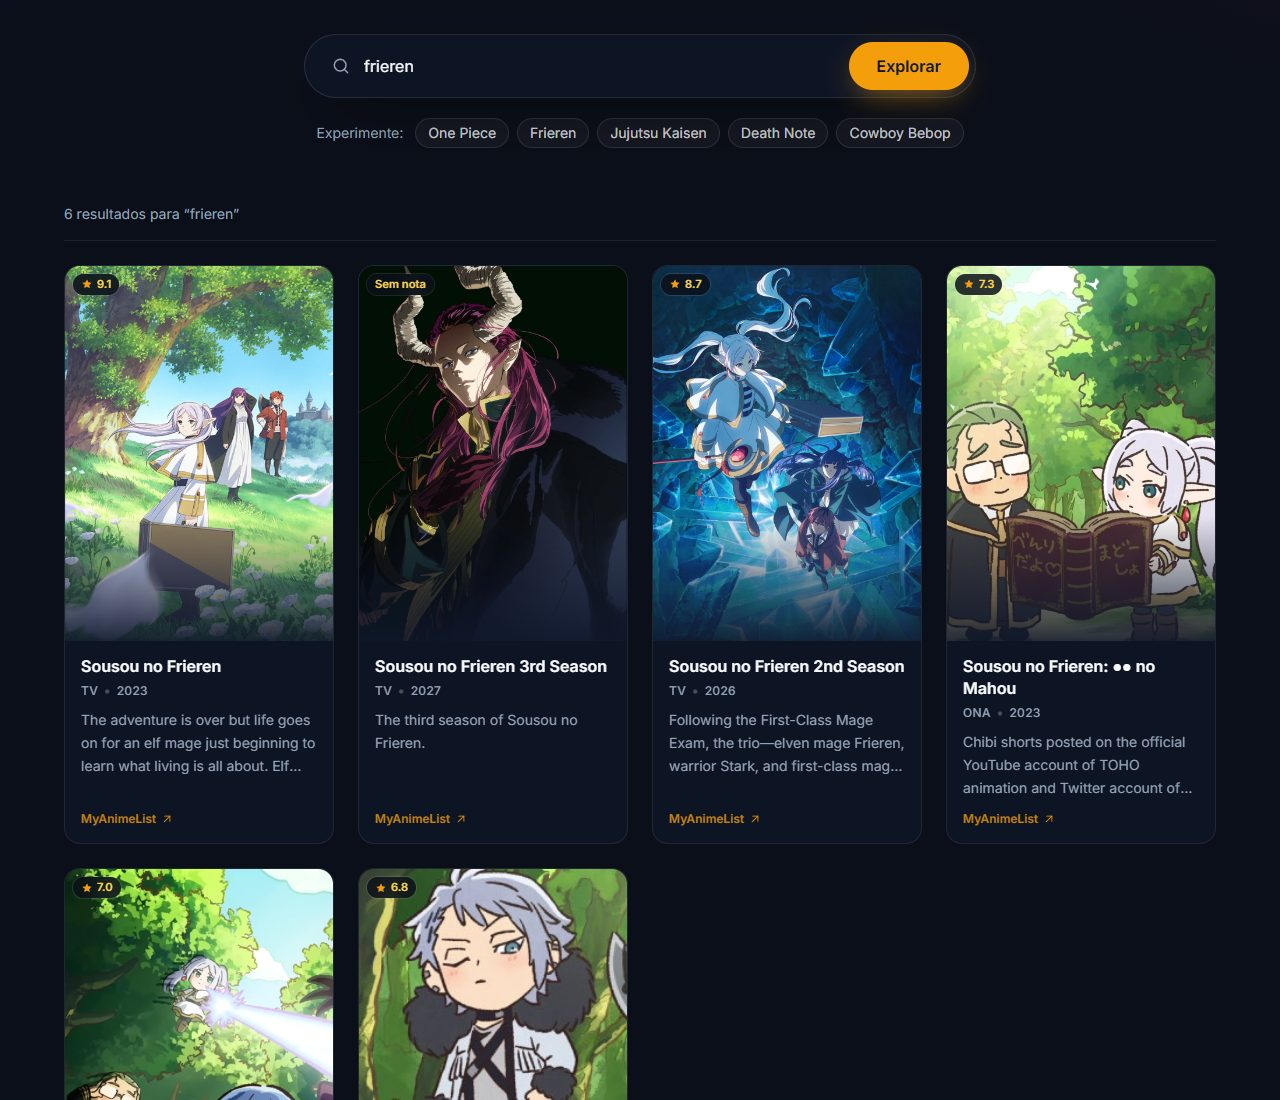
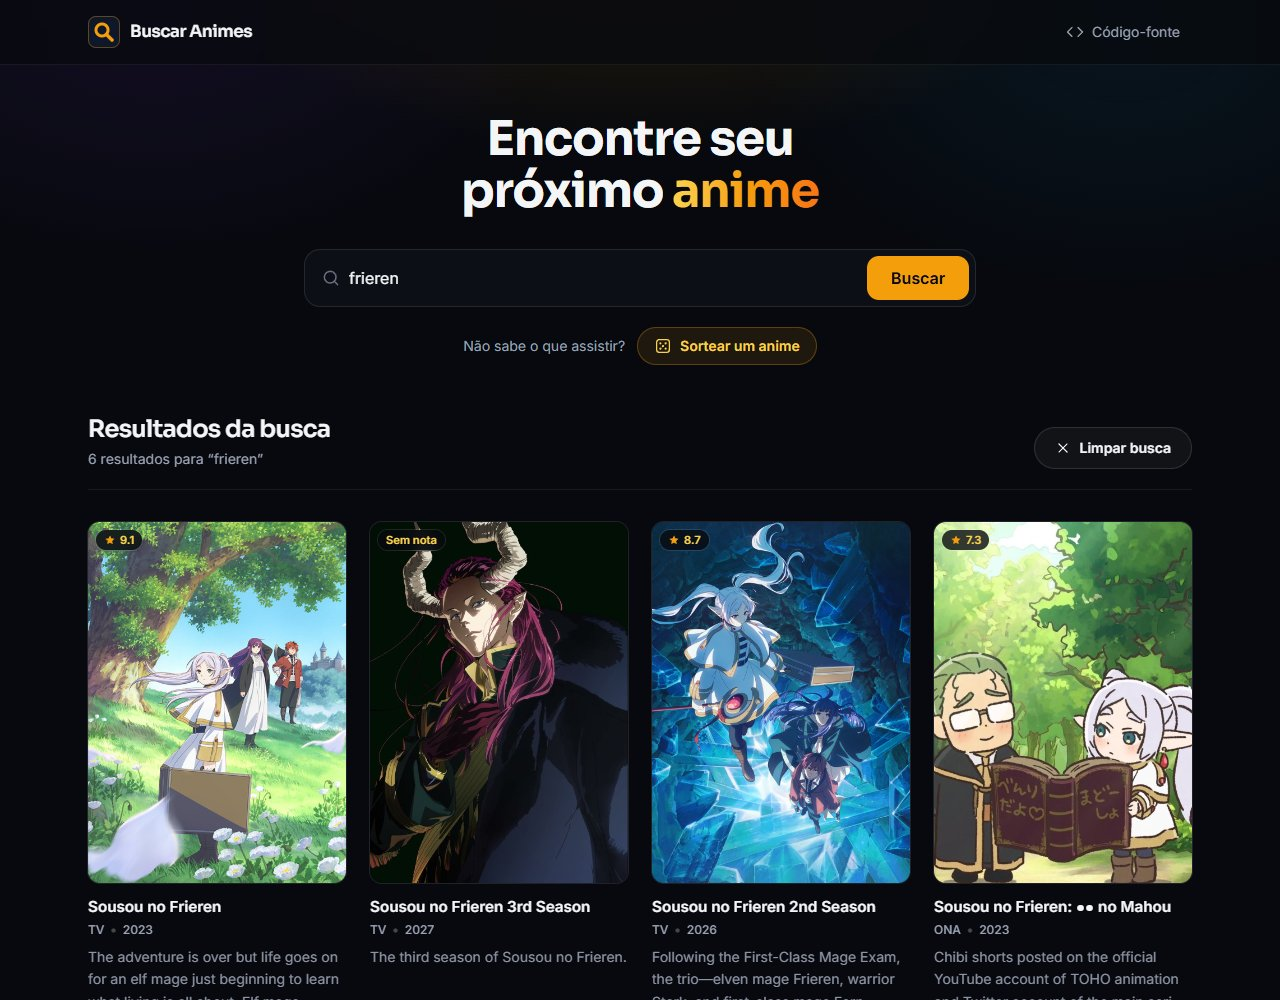
docs: atualiza README, capturas de tela e imagem de compartilhamento

diff --git a/README.md b/README.md
@@ -7,38 +7,38 @@
 ![Tailwind CSS](https://img.shields.io/badge/Tailwind_CSS_4-06B6D4?logo=tailwindcss&logoColor=white)
 ![Vitest](https://img.shields.io/badge/Vitest-6E9F18?logo=vitest&logoColor=white)
 
-Aplicação web para buscar animes pelo nome e ver capa, formato, ano, nota e sinopse de cada resultado. Os dados vêm da [API GraphQL do AniList](https://docs.anilist.co/), e cada card leva à página do anime no [MyAnimeList](https://myanimelist.net/) (ou no AniList, quando o anime não está no MyAnimeList).
+Aplicação web para encontrar o próximo anime para assistir: busque pelo nome, explore listas de sugestões (em alta, da temporada e mais bem avaliados) ou sorteie um anime quando não souber o que ver. Os dados vêm da [API GraphQL do AniList](https://docs.anilist.co/), e cada anime leva à sua página no [MyAnimeList](https://myanimelist.net/) (ou no AniList, quando o anime não está no MyAnimeList).
 
 **Demonstração:** <https://buscar-animes.vercel.app>
 
 <p align="center">
-  <img src="docs/screenshots/resultados-desktop.jpg" alt="Resultados da busca por Frieren no desktop: grade de cards com capa, nota, título, formato, ano e sinopse" width="68%" />
+  <img src="docs/screenshots/inicio-desktop.jpg" alt="Tela inicial no desktop: título Encontre seu próximo anime, campo de busca, botão Sortear um anime e a lista Em alta da seção Descubra" width="68%" />
   &nbsp;
-  <img src="docs/screenshots/resultados-mobile.jpg" alt="Resultados da busca por Frieren no celular, em lista compacta com capa à esquerda" width="22%" />
+  <img src="docs/screenshots/inicio-mobile.jpg" alt="Tela inicial no celular, com o campo de busca, o botão de sorteio e as abas de sugestões" width="22%" />
 </p>
 
 ## Funcionalidades
 
-- **Busca por nome** pelo botão "Explorar" ou pela tecla Enter, só com animes e sem conteúdo adulto (`isAdult: false`).
-- **Sugestões de busca** ("Experimente: One Piece, Frieren...") para quem chega sem um título em mente.
-- **Cards em formato de pôster** com capa, nota (de 0 a 10), título, formato (TV, Filme, OVA...), ano e sinopse resumida em três linhas. O card inteiro abre a página do anime.
-- **Paginação** com 12 resultados por vez e botão "Carregar mais".
-- **Busca na URL** (`?q=naruto`): dá para compartilhar o link de uma busca, e os botões voltar/avançar do navegador refazem as buscas anteriores.
+- **Busca por nome** pelo botão "Buscar" ou pela tecla Enter, só com animes e sem conteúdo adulto (`isAdult: false`).
+- **Sugestões sem precisar buscar:** a seção "Descubra" abre com a lista **Em alta** e tem abas para **Nesta temporada** (os mais populares da temporada atual, como a de outubro de 2026) e **Mais bem avaliados**. Cada lista tem 12 animes por vez e o botão "Carregar mais".
+- **Sorteio ("Não sabe o que assistir?"):** o botão "Sortear um anime" escolhe um título entre os 1.000 mais populares do AniList com nota acima de 7 e mostra um destaque com capa, banner, título em inglês, nota, formato, ano, episódios, gêneros traduzidos e sinopse, além dos botões "Ver no MyAnimeList" e "Sortear outro".
+- **Cards em formato de pôster** com capa, nota (de 0 a 10), título, formato (TV, Filme, OVA...), ano e sinopse resumida. O card inteiro abre a página do anime, e a sombra ao passar o mouse usa a cor predominante da capa.
+- **Busca na URL** (`?q=naruto`): dá para compartilhar o link de uma busca, e os botões voltar/avançar do navegador refazem as buscas anteriores. O botão "Limpar busca" volta para as sugestões sem recarregá-las.
 - **Estados de interface** para carregamento (skeleton), termo vazio, nenhum resultado e erros, com mensagens específicas para tempo esgotado (10 s), limite de requisições (HTTP 429, informando quanto tempo esperar), instabilidade do serviço (HTTP 5xx), falha de conexão e resposta inesperada, além do botão "Tentar novamente".
 - **Capa substituta** quando o anime não tem imagem ou ela não carrega, e capas menores no celular (`srcset`).
-- **Acessibilidade:** landmarks semânticos, região de status lida por leitores de tela, links com nome descritivo, foco visível, navegação completa pelo teclado e respeito à preferência de movimento reduzido (`prefers-reduced-motion`).
-- **Layout responsivo:** lista compacta no celular e grade de 2 a 4 colunas em telas maiores, de 320 px até telas largas.
+- **Acessibilidade:** landmarks semânticos, regiões de status lidas por leitores de tela, abas de sugestões com `aria-pressed`, links com nome descritivo, foco visível, foco levado ao anime sorteado, navegação completa pelo teclado e respeito à preferência de movimento reduzido (`prefers-reduced-motion`).
+- **Layout responsivo:** lista compacta no celular e grade de 3 a 4 colunas de pôsteres em telas maiores, de 320 px até telas largas.
 
 <details>
-<summary>Tela inicial e estado de carregamento</summary>
+<summary>Sorteio e resultados de busca</summary>
+
+![Destaque do anime sorteado, com capa, banner ao fundo, nota, gêneros, sinopse e os botões Ver no MyAnimeList e Sortear outro](docs/screenshots/sorteio-desktop.jpg)
 
 <p align="center">
-  <img src="docs/screenshots/inicio-desktop.png" alt="Tela inicial no desktop, com o título Encontre seu próximo anime, o campo de busca e sugestões de títulos" width="68%" />
+  <img src="docs/screenshots/resultados-desktop.jpg" alt="Resultados da busca por Frieren no desktop, com o título reduzido, o botão Limpar busca e a grade de cards" width="68%" />
   &nbsp;
-  <img src="docs/screenshots/inicio-mobile.png" alt="Tela inicial no celular, com o campo de busca e o botão Explorar empilhados" width="22%" />
+  <img src="docs/screenshots/resultados-mobile.jpg" alt="Resultados da busca por Frieren no celular, em lista compacta com capa à esquerda" width="22%" />
 </p>
-
-![Grade de cards skeleton exibida enquanto a busca por "naruto" carrega](docs/screenshots/carregando-desktop.png)
 
 </details>
 
@@ -55,26 +55,31 @@ Aplicação web para buscar animes pelo nome e ver capa, formato, ano, nota e si
 | GitHub Actions                                                                          | Lint, formatação, testes e build a cada push e pull request           |
 | [Vercel](https://vercel.com/)                                                           | Hospedagem                                                            |
 
-Não há bibliotecas de roteamento, de estado global, de requisições ou de GraphQL: o app tem uma única tela e faz uma única consulta, então `useReducer` + `fetch` resolvem o necessário.
+Não há bibliotecas de roteamento, de estado global, de requisições ou de GraphQL: o app tem uma única tela e poucas consultas fixas, então `useReducer` + `fetch` resolvem o necessário.
 
 ## Decisões técnicas
 
-- **A última busca sempre vence.** Cada requisição usa um `AbortController`. Uma nova busca, o "Carregar mais" ou a saída da tela cancelam a requisição anterior, e respostas atrasadas são descartadas. Assim o resultado exibido sempre corresponde ao termo do campo de busca ([`useAnimeSearch.ts`](src/hooks/useAnimeSearch.ts)).
-- **Consulta GraphQL com `fetch`.** A busca é um `POST` com a query e as variáveis, sem cliente GraphQL. O serviço tem timeout próprio de 10 segundos, combinado com o cancelamento externo sem depender de `AbortSignal.any`, que não existe no Safari anterior ao 17.4 ([`anilist.ts`](src/services/anilist.ts)).
-- **Dados validados na entrada.** A resposta passa por uma normalização que trata campos ausentes, converte a nota de 0–100 para 0–10, traduz o formato e aceita apenas capas `https` e links do MyAnimeList ou do AniList, o que bloqueia URLs como `javascript:` ([`normalizeAnime.ts`](src/utils/normalizeAnime.ts)). A sinopse do AniList pode trazer `<br>` e `<i>`; ela vira texto puro antes de ser exibida ([`plainText.ts`](src/utils/plainText.ts)). Todo texto é renderizado pelo React como texto, e o lint proíbe `dangerouslySetInnerHTML`.
+- **Um hook para todas as listas.** A busca e as listas de sugestões usam o mesmo [`useAnimeList`](src/hooks/useAnimeList.ts), que recebe a função que busca cada página. Ele cuida de carregamento, erros, "Carregar mais" e cancelamento, e cada lista mantém o próprio estado: limpar a busca mostra de novo as sugestões já carregadas, sem nova requisição.
+- **A última requisição sempre vence.** Cada requisição usa um `AbortController`. Uma nova busca, a troca de aba, o "Carregar mais", um novo sorteio ou a saída da tela cancelam a requisição anterior, e respostas atrasadas são descartadas.
+- **Sorteio com uma única requisição.** A consulta do sorteio pede uma página com um único anime (`perPage: 1`) de uma lista ordenada por popularidade; sortear o número da página (de 1 a 1.000) é sortear o anime ([`anilist.ts`](src/services/anilist.ts)). Durante um novo sorteio, o anime anterior continua na tela, esmaecido, para a troca não piscar ([`useRandomAnime.ts`](src/hooks/useRandomAnime.ts)).
+- **Sugestões com curadoria.** As listas e o sorteio aparecem sem a pessoa ter pedido nada, então aceitam só séries, filmes e ONAs e excluem o gênero ecchi. A lista "Mais bem avaliados" exige mais de 10 mil usuários no AniList, para evitar títulos com nota alta e poucos votos. A busca por nome não tem esses filtros.
+- **Uma consulta por lista.** O AniList trata variáveis nulas como filtro (por exemplo, "animes sem temporada"), em vez de ignorá-las, por isso cada lista tem a própria consulta GraphQL, e só a da temporada recebe `season` e `seasonYear`.
+- **Temporada pelo mês de início.** A temporada atual é calculada pela data ([`season.ts`](src/utils/season.ts)) e aparece como "temporada de outubro de 2026", porque "outono" e "primavera" se invertem no Brasil.
+- **Consulta GraphQL com `fetch`.** Cada consulta é um `POST` com a query e as variáveis, sem cliente GraphQL. O serviço tem timeout próprio de 10 segundos, combinado com o cancelamento externo sem depender de `AbortSignal.any`, que não existe no Safari anterior ao 17.4.
+- **Dados validados na entrada.** A resposta passa por uma normalização que trata campos ausentes, converte a nota de 0–100 para 0–10, traduz o formato e os gêneros, aceita apenas imagens `https`, cores no formato `#rrggbb` (a cor vai para um atributo `style`) e links do MyAnimeList ou do AniList, o que bloqueia URLs como `javascript:` ([`normalizeAnime.ts`](src/utils/normalizeAnime.ts)). A sinopse do AniList pode trazer `<br>` e `<i>`; ela vira texto puro antes de ser exibida ([`plainText.ts`](src/utils/plainText.ts)). Todo texto é renderizado pelo React como texto, e o lint proíbe `dangerouslySetInnerHTML`.
 - **Erros tipados** (`ApiHttpError`, `ApiResponseError`, `RequestTimeoutError`) traduzidos em mensagens claras para o usuário ([`searchErrors.ts`](src/utils/searchErrors.ts)).
-- **Identidade visual em tokens.** O tema noturno com destaque âmbar, herdado da versão original, está definido como tokens do Tailwind em [`index.css`](src/index.css). O brilho do fundo usa só gradientes, sem filtros de blur pesados, e os ícones são SVGs próprios, sem biblioteca externa ([`Icon.tsx`](src/components/Icon.tsx)).
+- **Visual em tokens.** O tema escuro neutro, com o âmbar reservado para ações e destaques, está definido como tokens do Tailwind em [`index.css`](src/index.css), com as fontes Sora (títulos) e Inter (texto). As cores ficam por conta das capas: a sombra dos cards e o brilho do destaque usam a cor predominante de cada capa. Os fundos usam só gradientes, sem filtros de blur pesados, e os ícones são SVGs próprios, sem biblioteca externa ([`Icon.tsx`](src/components/Icon.tsx)).
 - **Card inteiro clicável sem links duplicados.** O link do título se estende sobre o card, então o clique funciona em qualquer ponto, mas o leitor de tela ouve um único link por anime.
 
 ## Estrutura
 
 ```text
 src/
-├── components/   # Header, SearchForm, SearchSuggestions, SearchResults, AnimeCard, Icon...
-├── hooks/        # useAnimeSearch: estado da busca, paginação e cancelamento
-├── services/     # anilist.ts: consulta GraphQL, timeout e erros da API
+├── components/   # Header, Hero, SearchForm, RandomSpotlight, DiscoverSection, SearchResults, AnimeGrid, AnimeCard, Icon...
+├── hooks/        # useAnimeList (busca e sugestões) e useRandomAnime (sorteio)
+├── services/     # anilist.ts: consultas GraphQL, timeout e erros da API
 ├── types/        # Tipos da resposta do AniList e do modelo exibido
-├── utils/        # Normalização, texto puro, mensagens de erro, formatação e URL
+├── utils/        # Normalização, texto puro, temporada, mensagens de erro, formatação e URL
 ├── test/         # Configuração e dados de teste
 ├── App.tsx
 ├── main.tsx
@@ -111,10 +116,11 @@ Abra o endereço exibido no terminal (por padrão, <http://localhost:5173>). Nã
 
 Os testes usam Vitest, Testing Library e uma API do AniList simulada, então não dependem da internet. Eles cobrem:
 
-- o corpo da consulta GraphQL e cada tipo de erro (HTTP, limite de requisições, JSON inválido, erro do GraphQL, falha de rede, timeout e cancelamento);
-- a normalização dos dados, incluindo campos ausentes, conversão de nota, formatos, links, URLs inseguras e a limpeza da sinopse;
-- o hook de busca: busca concorrente (a mais recente vence), "Carregar mais", nova tentativa após erro e cancelamento ao desmontar;
-- os componentes e o fluxo completo: Enter, sugestões de busca, skeleton, resultados, URL e título da página, botão voltar do navegador, termo vazio, nenhum resultado, erro com nova tentativa, paginação e foco do teclado.
+- o corpo de cada consulta GraphQL (busca, listas de sugestões com a temporada atual e sorteio, incluindo a página sorteada) e cada tipo de erro (HTTP, limite de requisições, JSON inválido, erro do GraphQL, falha de rede, timeout e cancelamento);
+- a normalização dos dados, incluindo campos ausentes, conversão de nota, formatos, gêneros, título em inglês, cores, links, URLs inseguras e a limpeza da sinopse;
+- o cálculo da temporada atual;
+- os hooks: lista concorrente (a mais recente vence), "Carregar mais", nova tentativa após erro, cancelamento ao desmontar, e o sorteio mantendo o anime anterior durante um novo sorteio;
+- os componentes e o fluxo completo: lista "Em alta" ao abrir, troca de abas, "Carregar mais" nas sugestões, sorteio com detalhes, "Sortear outro", fechamento e foco, busca com Enter, skeleton, URL e título da página, botão voltar do navegador, "Limpar busca", termo vazio, nenhum resultado, erros com nova tentativa e foco do teclado.
 
 ```bash
 npm test
@@ -126,16 +132,17 @@ npm test
 
 ## Limitações conhecidas
 
-- **Limite de requisições do AniList.** A API está temporariamente limitada a 30 requisições por minuto (normalmente são 90). Ao estourar o limite, o app avisa quanto tempo esperar e permite tentar de novo.
+- **Limite de requisições do AniList.** A API está temporariamente limitada a 30 requisições por minuto (normalmente são 90). Abrir a página, trocar de aba, buscar, carregar mais e sortear usam uma requisição cada. Ao estourar o limite, o app avisa quanto tempo esperar e permite tentar de novo.
 - **Sem contagem total de resultados.** O AniList não informa um total confiável para buscas, então o app mostra quantos resultados já foram carregados e se há mais páginas.
-- **Idioma dos dados.** Títulos aparecem em japonês romanizado (ou em inglês, quando é o único disponível), e as sinopses vêm em inglês, sem tradução.
-- **Sem filtros.** Ainda não há filtros por formato, gênero ou ordenação.
+- **Idioma dos dados.** Títulos aparecem em japonês romanizado (o título em inglês aparece só no destaque do sorteio), e as sinopses vêm em inglês, sem tradução.
+- **Sorteio limitado aos populares.** O sorteio considera os 1.000 animes mais populares com nota acima de 7, o que deixa de fora títulos pouco conhecidos.
+- **Sem filtros.** Ainda não há filtros por formato, gênero ou ordenação na busca, nem sorteio por gênero.
 
 ## Próximos passos possíveis
 
-- Filtros por formato, gênero e ordenação, usando os argumentos `format`, `genre` e `sort` da consulta `Page.media` do AniList.
+- Filtros por formato, gênero e ordenação, usando os argumentos `format`, `genre` e `sort` da consulta `Page.media` do AniList, e sorteio por gênero.
 - Página ou modal de detalhes do anime, com personagens e episódios.
-- Opção de exibir títulos em inglês.
+- Opção de exibir títulos em inglês nos cards.
 
 ## Histórico
 
@@ -143,7 +150,7 @@ Este projeto nasceu em 2024 na **Imersão Dev Front-End com Google Gemini, da Al
 
 Em 2026, o app passou a consultar a API Jikan (dados do MyAnimeList) e ganhou o visual escuro com efeito de vidro, ainda em HTML, CSS e JavaScript puros. Depois, uma auditoria corrigiu problemas de segurança e de comportamento (injeção de HTML, falta de timeout, buscas concorrentes e o resumo da sinopse), e a interface foi migrada para React, TypeScript e Tailwind CSS. A versão em JavaScript puro continua disponível no histórico do Git, na tag `v1-vanilla`.
 
-Em outubro de 2026, a [API pública da Jikan foi descontinuada](https://github.com/jikan-me/jikan-rest/issues/613), e a busca passou a usar a API do AniList, junto com um redesign completo da interface.
+Em outubro de 2026, a [API pública da Jikan foi descontinuada](https://github.com/jikan-me/jikan-rest/issues/613), e a busca passou a usar a API do AniList, junto com um redesign completo da interface. No mesmo mês vieram as listas de sugestões, o sorteio e um visual mais limpo, com as cores vindas das capas.
 
 ## Créditos
 
